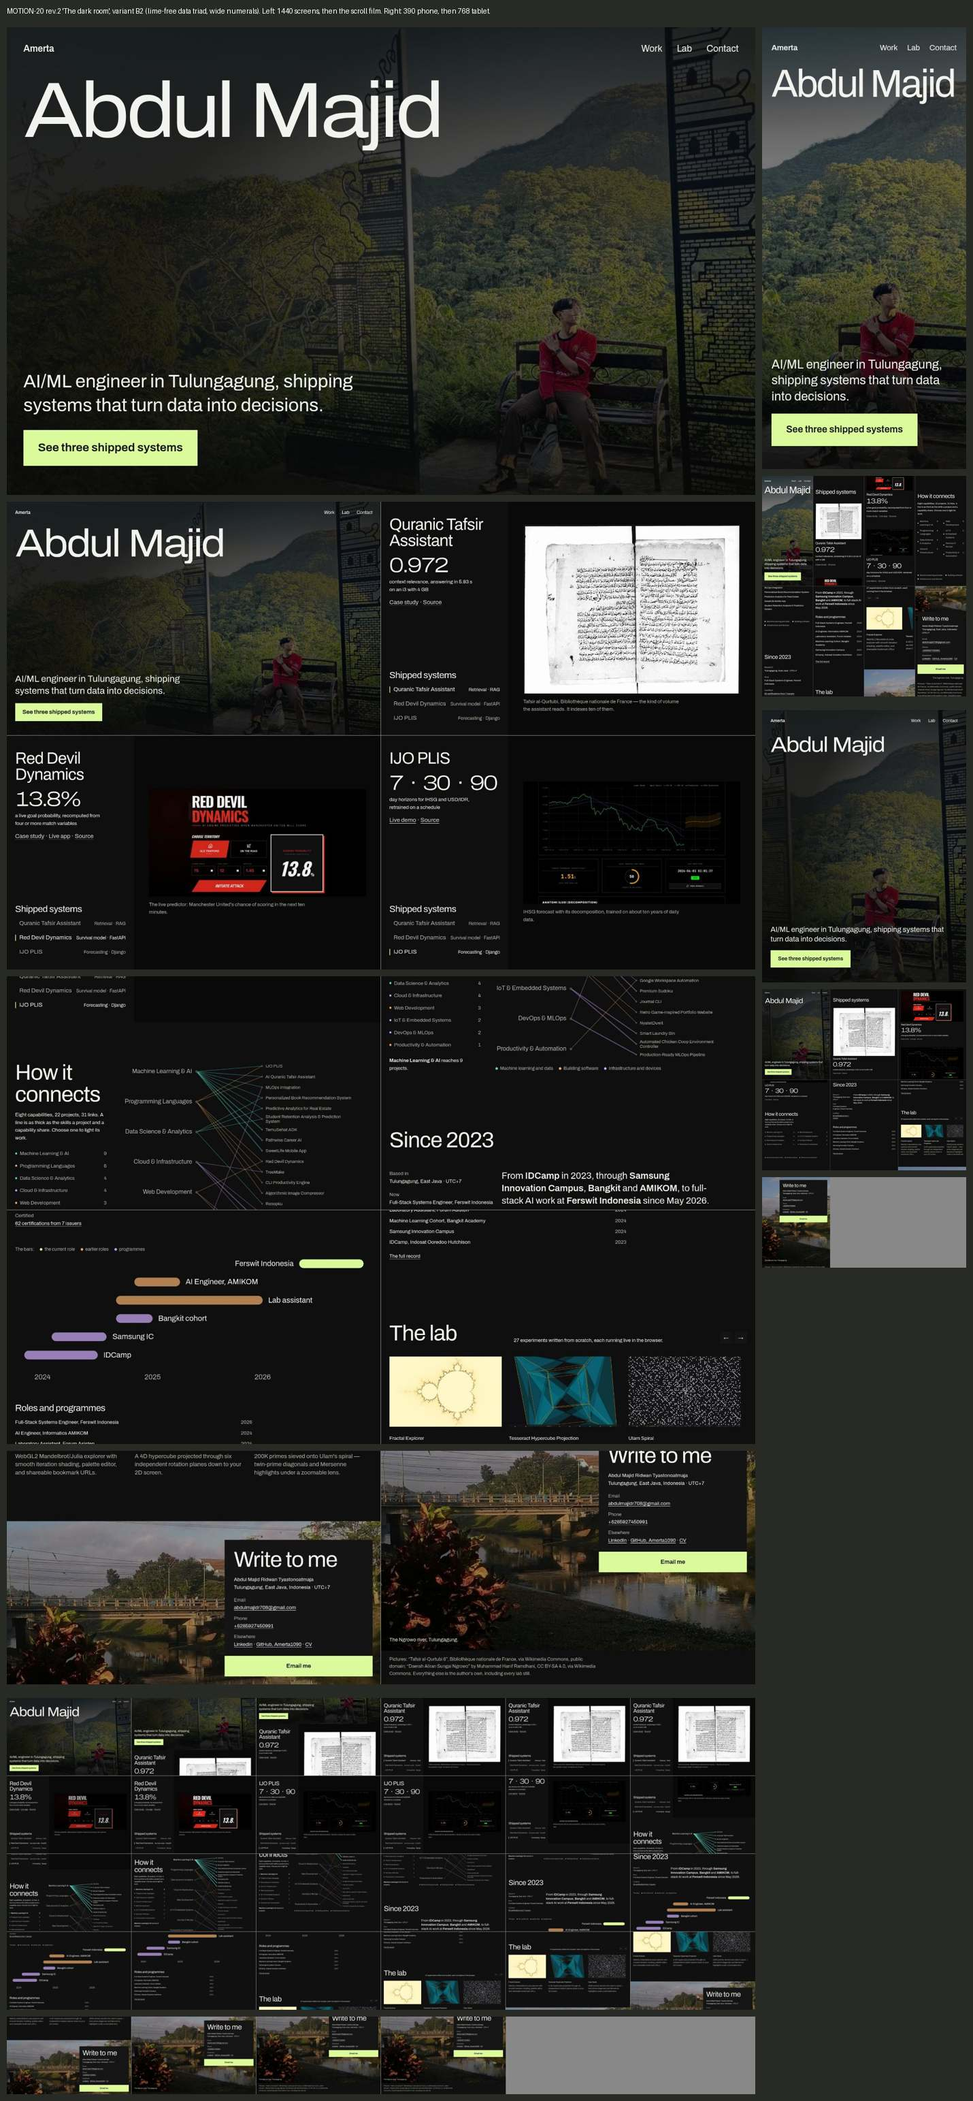
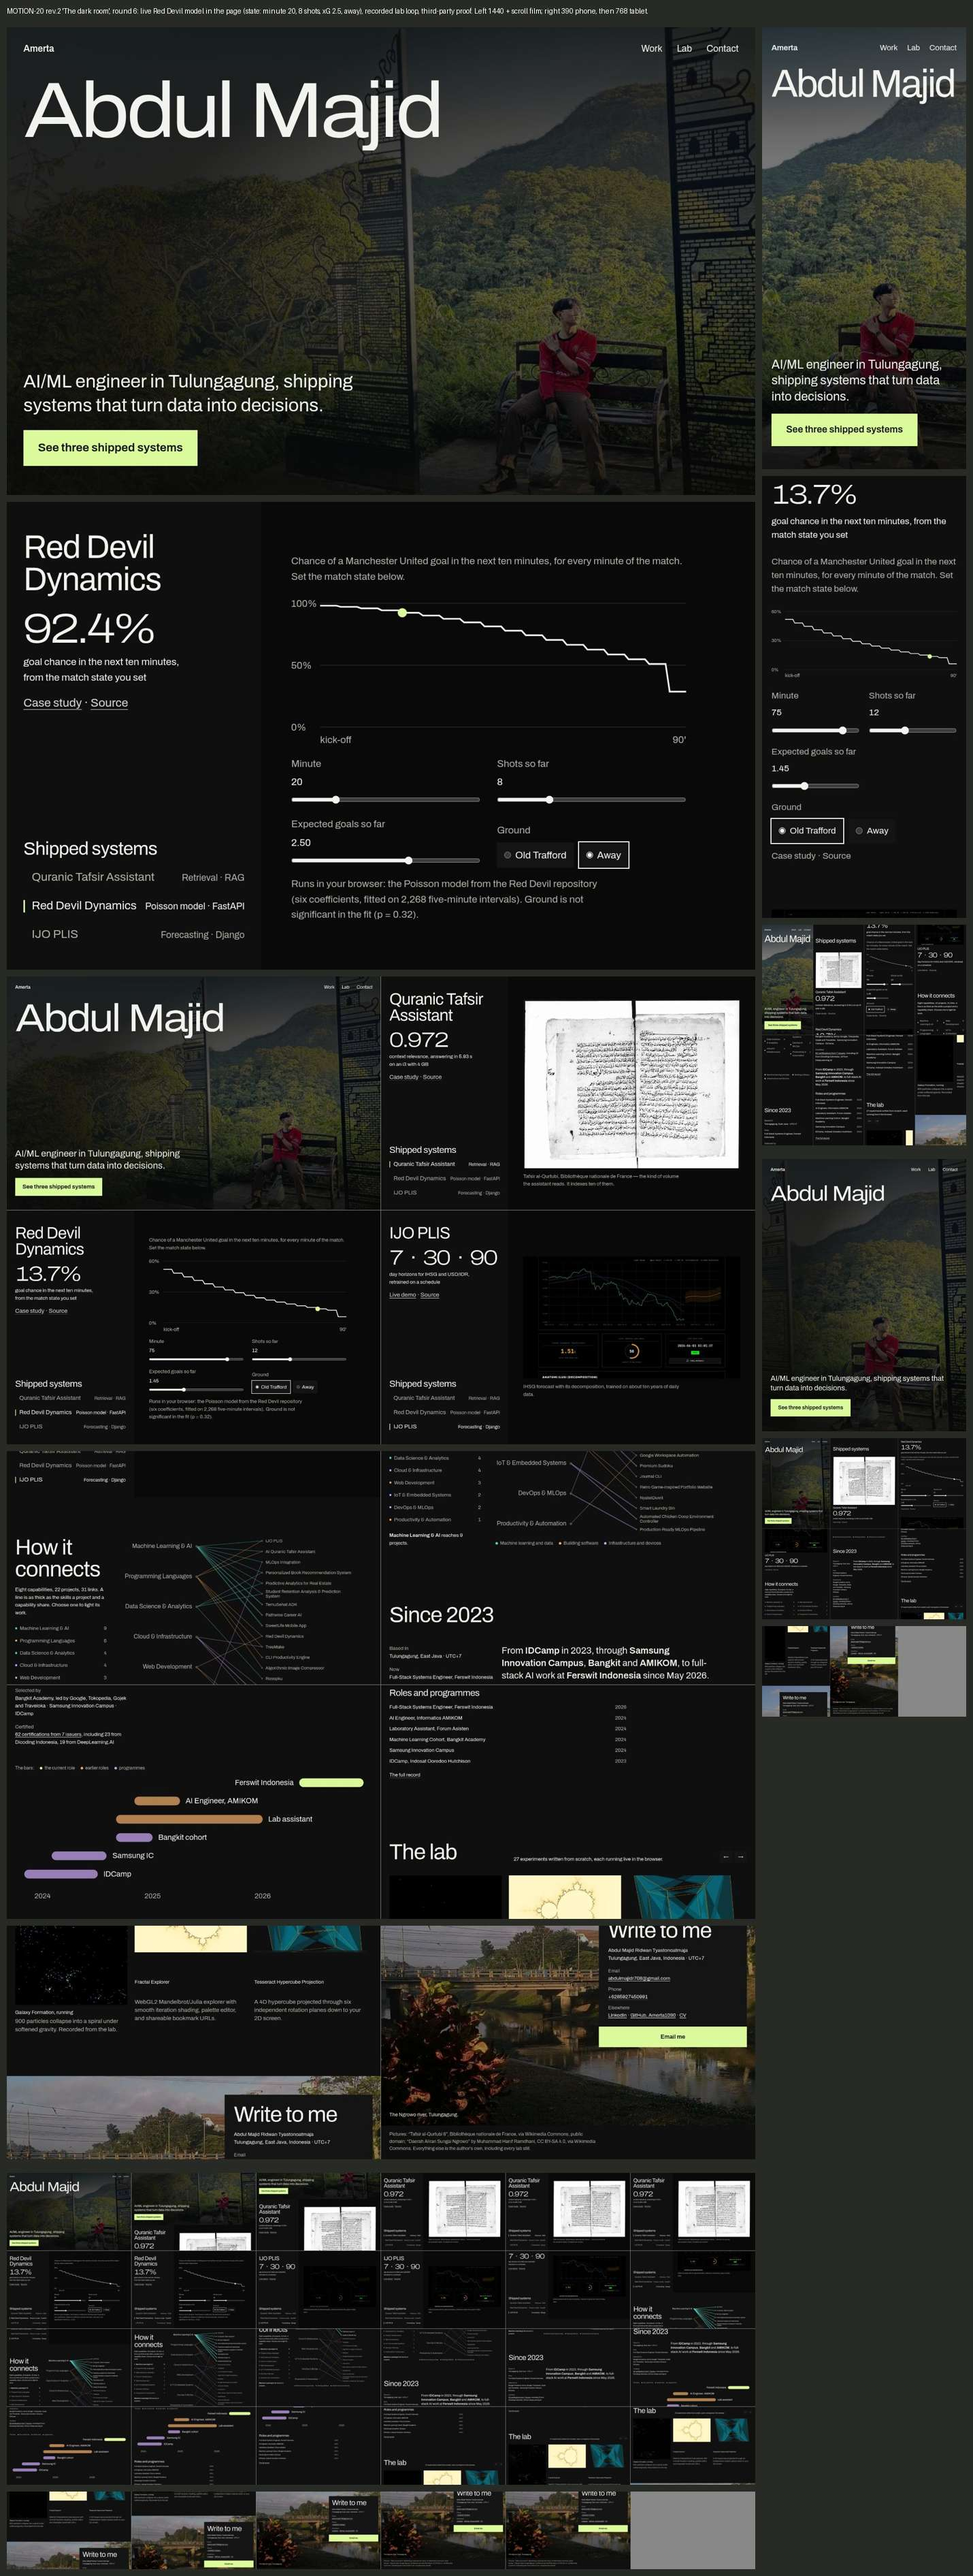
docs(motion): MOTION-20 rev. 2 round 6 (live Red Devil model, footage, proof)
Red Devil now runs in the page. Its Poisson GLM coefficients come from the
repo notebook's printed summary (the pickle was not loaded), and the browser
reproduces the owner's 13.8 % screenshot within rounding. The lab gets a
recorded Galaxy Formation loop, and the career facts now name the
third-party selections and issuers already in the data layer.

The panel mean went from 7.58 to 7.99, the largest gain since round 2.

Found while porting: the deployed Red Devil frontend calls 127.0.0.1, so no
visitor could ever run it, and its "Survival" label does not match the code.

diff --git a/AGENTS.md b/AGENTS.md
@@ -37,7 +37,7 @@ Stack: Astro + React islands + TailwindCSS + Framer Motion + GSAP + D3 + Three.j
 - Sprint Observatory (Portfolio as Dataset): ✅ COMPLETE — determinant analytics layer di `/observatory` (Overview/Timeline/Technology/Patterns/Insights). Detail di bawah.
 - Sprint Motion (motion.dev upgrade + MotionScore): 🔄 Phase A–C ✅ COMPLETE, Phase D ✅ (Guard + animateView gratis; Motion UI/Motion+ SKIP berbayar) — migrasi framer-motion→motion 13.4.1, RAF off-screen guard (`useRafGuard`), MotionScore pasca-C: `/` B 53 · `/gallery` S 86 · `/observatory` A 77 (nol temuan D/F). Detail di bawah.
 - **Sprint Motion-II (Home Scroll Pass): ✅ COMPLETE (2026-09-24, commit `22ec0cd`→`4dc9171`) — M-1 visibility/frameloop + thrash, M-2 ScrollAnimator zombie dihapus (reveal native CSS scroll-driven), M-3 island merge home 33→18 roots (5 komposit: PageTailOverlays/HeaderTools/GitHubCommandCenter/GitHubPhase3/GlobalChrome), M-4 off-screen (CommandCenter `client:visible`; off-screen 6→3 HIGH→LOW) + A/B GPU floor + MorphingNavigation listener-churn fix. Final audit `/`: **B 56–58**, scroll listeners **41→26**, thrashing S, 0 temuan D/F. **Gap B→A = 2 HIGH struktural terdokumentasi** (GPU 606MB = floor env terbukti A/B byte-identik; "Excess scroll listeners" = rasio ≥0.8 listener/jsScrollAnims dengan penalty capped `min(n×5,25)` — merge lanjut tak menaikkan skor). Detail: docs/archive/motion-TASKS.md (51 item) + baseline §9–§10.**
-- **Motion Programme MOTION-20 ⏸ (2026-11-03, rev. 2 awaiting owner sign-off): owner rejected rev. 1 ("Resolve" = today's look minus ornaments, "doesn't amaze"). Rev. 2 "The dark room" (D-13) from the taste run: dealt direction (seed 207625105), Archivo + soot/lime, real outputs as lit exhibits, 27 lab stills captured from the running experiments. Panel: taste inspector 16 FAIL → 0; three screenshot-only sub-agent jurors 6.25 → 7.0 → 7.27 → 7.5 over 4 rounds, ceiling ≈ 8.2 without owner assets. Found defects: both live demos 404 (site says "Live"); 7 lab experiments open blank. Lessons: a meter pass is the floor, not the grade; independent jurors converge on the same defects; lazy images inside a `clip-path: inset(100%)` never load; hit-testing inspectors read a full-area heading box as covering the photo.**
+- **Motion Programme MOTION-20 ⏸ (2026-11-03, rev. 2 awaiting owner sign-off): owner rejected rev. 1 ("Resolve" = today's look minus ornaments, "doesn't amaze"). Rev. 2 "The dark room" (D-13) from the taste run: dealt direction (seed 207625105), Archivo + soot/lime, real outputs as lit exhibits, 27 lab stills captured from the running experiments. Panel: taste inspector 16 FAIL → 0; three screenshot-only sub-agent jurors 6.25 → 7.0 → 7.27 → 7.5 → 7.58 → 7.99 over 6 rounds; the jump came from making Red Devil operable (its Poisson GLM ported from the repo, matches the owner's 13.8 % screenshot), not from colour or found assets. Found defects: both live demos 404 (site says "Live"); 7 lab experiments open blank. Lessons: a meter pass is the floor, not the grade; independent jurors converge on the same defects; lazy images inside a `clip-path: inset(100%)` never load; hit-testing inspectors read a full-area heading box as covering the photo.**
 - **Motion Programme MOTION-19 ✅ (2026-11-03): home cut to the approved six chapters (hero → 3 flagships → how I work → journey highlights → lab teaser → contact), measured 8,511 px = 9.46 screens @1440×900 (was ≈28); payload `/` 202.7/556.1/77.2 → 194.7/493.8/32.0 KB, islands 16 → 9 (5e/4d); nothing was deleted from the site, only from the home (spine/skills/certifications → `/about`, GitHub → `/data`, all 22 → `/work`, all 27 → `/lab`, 0 broken of 1,476 links). Rules not lists: flagship rank is `projects.json` `flagship: 1..3` (validate-data rejects non-contiguous / non-featured), journey = `toCareerHighlights()` (drops `type === "contract"`), lab = `src/lib/lab-teaser.ts` (one per category + one flagship, kept out of the `/lab` bundle). Deleted with last consumer (Rule 6): `About.astro`, `Certifications.astro`, `ImpactMetrics`, `SkillsExplorer`, `CapabilityGenerator`, `src/lib/tracery/*`, `data/capability-grammars.json`, 4 specs. Lessons: `data-lab-group*` (`<details>` sheet) died with the 27-thumbnail sheet — remove the CSS hooks in the same commit or the guard tests a ghost; a link that would print `facts.timeline.count` (22) next to a 26-record spine must print words instead; hero fixtures that invent metric ids pass at runtime and fail `astro check` — fixture types are part of the gate.**
 - **Motion Programme MOTION-18 ✅ (2026-10-31): one canonical route per kind of content — `/work` (22 projects; a project with `case_study` in `projects.json` lives at `/work/<case-study-id>`), `/about` (spine + skills + certifications), `/lab` (was /gallery), `/data` (Observatory + GitHub), contact = `/#contact`; nav 5 items from `NAV_ITEMS` (Header renders it). All URLs come from `src/lib/routes.ts` (0 imports); 30 retired URLs → `public/_redirects` (unit-test-locked) + `src/pages/[...retired].astro` fallback that keeps `?query`/`#fragment`. New gate `bun run check:links` (0 broken, 0 links to retired routes). Build 72 pages, `astro check` baseline 89. Lessons: the link checker found 4 pre-existing dead links on its first run; legacy `[data-reveal] > *` (opacity 0 until a view() timeline activates) hid `/data`'s h1 after a ClientRouter swap; never `pkill -f` a pattern that appears in your own command line (it kills the shell); `git stash push -- ':!dist'` half-runs when the excluded path is gitignored — build an A/B in a worktree with its own `bun install` instead.**
 - **Motion Programme MOTION-17 ✅ (2026-10-31, owner-approved): audience & narrative brief in `docs/motion/STORYBOARD.md` — recruiters/developers at 5 s/30 s/3 min, 6 messages → data-layer proof, flagships Tafsir / Red Devil / IJO PLIS, home = 6 chapters ≈ 9.5 screens (today ≈ 28). Benchmark `RESEARCH.md` §9: 7 developer portfolios measure 1.0–6.8 screens @1440. MOTION-18 (IA & route consolidation) READY. Env: repo Playwright expects `chromium_headless_shell-1248` (not installed) → `bunx playwright install chromium` before e2e.**

diff --git a/docs/motion/SESSION_LOG.md b/docs/motion/SESSION_LOG.md
@@ -1018,3 +1018,47 @@ signature the visitor can operate on the real work (e.g. move Red Devil's
 match inputs and watch the probability change), footage of a system running,
 lit photography of the person and the work, outside proof, and live demos that
 load (both return 404).
+
+#### Round 6 — what code *can* supply: a live model, footage, outside proof (2026-11-03)
+
+Owner challenged "9+ needs material code cannot make". Re-sorted the jurors'
+list into what code can and cannot supply, then built the first three:
+
+1. **Live Red Devil instrument (VERIFIED).** The repo
+   `Amerta1090/Red-Devil-Dynamics-` serves a statsmodels Poisson GLM
+   (`app/services/prediction.py`). Coefficients taken from the notebook's
+   printed summary, not by unpickling: const −2.6705, minute −0.0214, side
+   0.1534, shots −0.0250, xG 1.3614, fast break −0.7372 (n = 2,268). Ported
+   the same steps (two 5-min intervals, `1 − e^{−Σλ}`) to the page. Python and
+   browser agree: 13.71 / 10.68 / 15.80 % for three input sets. It reproduces
+   the 13.8 % in the owner's own screenshot within 4-dp rounding (13.7 %).
+   Finding: the deployed Red Devil frontend calls `http://127.0.0.1:8000/predict`,
+   so no visitor could ever have run it; the "Survival model" label does not
+   match the code (Poisson GLM) and was corrected in the mock.
+2. **Footage.** Galaxy Formation recorded running in `/lab` (Playwright video),
+   cropped to the spiral, 6 s muted loop, VP9, 106 KB, poster = densest frame.
+   Reduced motion: no autoplay.
+3. **Third-party proof from the data layer:** "Selected by Bangkit Academy
+   (Google, Tokopedia, Gojek, Traveloka) · Samsung Innovation Campus · IDCamp",
+   certifications with the two largest issuers named (derived from
+   `SiteFacts.certifications.byIssuer`).
+
+| Juror | Round 5 (B) | Round 6 |
+| --- | ---: | ---: |
+| Awwwards-weighted | 7.37 | 7.77 |
+| taste critique.md (live-thing cap lifted) | 7.78 | 8.2 |
+| product-design | 7.6 | 8.0 |
+| **Mean** | **7.58** | **7.99** |
+
+Post-round-6 fixes (not re-scored): labelled 0/50/100 % y-axis and a taller
+curve, lime only on the current-minute dot, 2-column phone controls, smaller
+phone gaps, densest-frame poster. Taste inspector 0 FAIL throughout. Note:
+the inspector's own Chrome hung on a GNOME keyring prompt; a wrapper adding
+`--password-store=basic` fixed it (Playwright already passes that flag).
+
+**Still not possible from code, per the jurors:** IJO PLIS as an instrument
+needs the owner's Prophet model run (unpickling a joblib model + installing
+prophet/cmdstan — needs approval; a home-made forecast labelled IJO PLIS would
+be dishonest); Tafsir needs a recording of the real system; a lit portrait;
+outside measures of use. Jurors' ceilings now: 8.2–8.8 depending on whether
+IJO PLIS and Tafsir become operable.

diff --git a/docs/motion/STORYBOARD.md b/docs/motion/STORYBOARD.md
@@ -125,6 +125,15 @@ engineer cannot put these numbers or this manuscript or this town on the page.
 | creative-lab | *small frames, wide space*: a draggable row of all 27 with ← → controls, real stills + real one-line descriptions | generative (captured) | each still |
 | contact | *visit card on a photograph*: dark card, full name, channels, lime "Email me" on the river at dusk; credits strip | credited place photograph | the card |
 
+**The operable exhibit (round 6).** Red Devil Dynamics is shown as an
+instrument, not a screenshot: the visitor sets minute, shots, xG and ground,
+and the author's own Poisson GLM (six coefficients from the repository's
+notebook) recomputes the next-ten-minutes goal chance and the curve over the
+match, in the browser, with the fit's caveat printed (ground p = 0.32). It is
+the panel's most-cited element and the reason "the room lights" becomes
+"the room runs". IJO PLIS and Tafsir follow the same rule only when their
+real models or real recordings are available.
+
 **MOTION-21 brief (updated).** The signature stays in chapter 3 — *the map
 lights*: on entry the 31 links take their weight, then the busiest capability
 (Machine Learning & AI, 9) lights with its projects; the reader drives after
@@ -143,7 +152,7 @@ programmes), always with a key. Big numbers use Archivo `wdth` 125, weight 300.
 
 **Measured result of the mock (VERIFIED 2026-11-03).** Taste inspector: 0 FAIL
 (home today: 16 FAIL). Impeccable detector: 0 findings. Independent panel,
-average of three jurors per round: **6.25 → 7.0 → 7.27 → 7.5 → 7.58** (round 5 = triad + wide numerals, judged with the scroll film) (round 4:
+average of three jurors per round: **6.25 → 7.0 → 7.27 → 7.5 → 7.58 → 7.99** (round 5 = triad + wide numerals with the scroll film; round 6 = the Red Devil model running in the page, a recorded lab loop, third-party proof) (round 4:
 taste-critique 7.8, Awwwards-weighted 7.3, product-design 7.4). All three
 jurors independently put the ceiling for layout-only work at ≈ 8.2.
 

diff --git a/docs/motion/STATUS.md b/docs/motion/STATUS.md
@@ -234,7 +234,7 @@ perception thresholds with ≥ 5 recruiters and ≥ 5 developers.
 
 **Owner decision needed on MOTION-20 rev. 2 ("The dark room", D-13).** It is a
 rebrand (Archivo, soot/lime, lime-free data triad) judged by an independent
-panel: mean 6.25 → 7.58 over five rounds, taste inspector 0 FAIL (today 16). The panel's ceiling for
+panel: mean 6.25 → 7.99 over six rounds (round 6 added the Red Devil model running live in the page), taste inspector 0 FAIL (today 16). The panel's ceiling for
 layout-only work is ≈ 8.2; 9+ needs owner inputs: working live demos (both
 return 404 today — a defect on the shipped site too), a screen recording of a
 system working, a lit portrait, an owned Tafsir capture, outside proof. On
